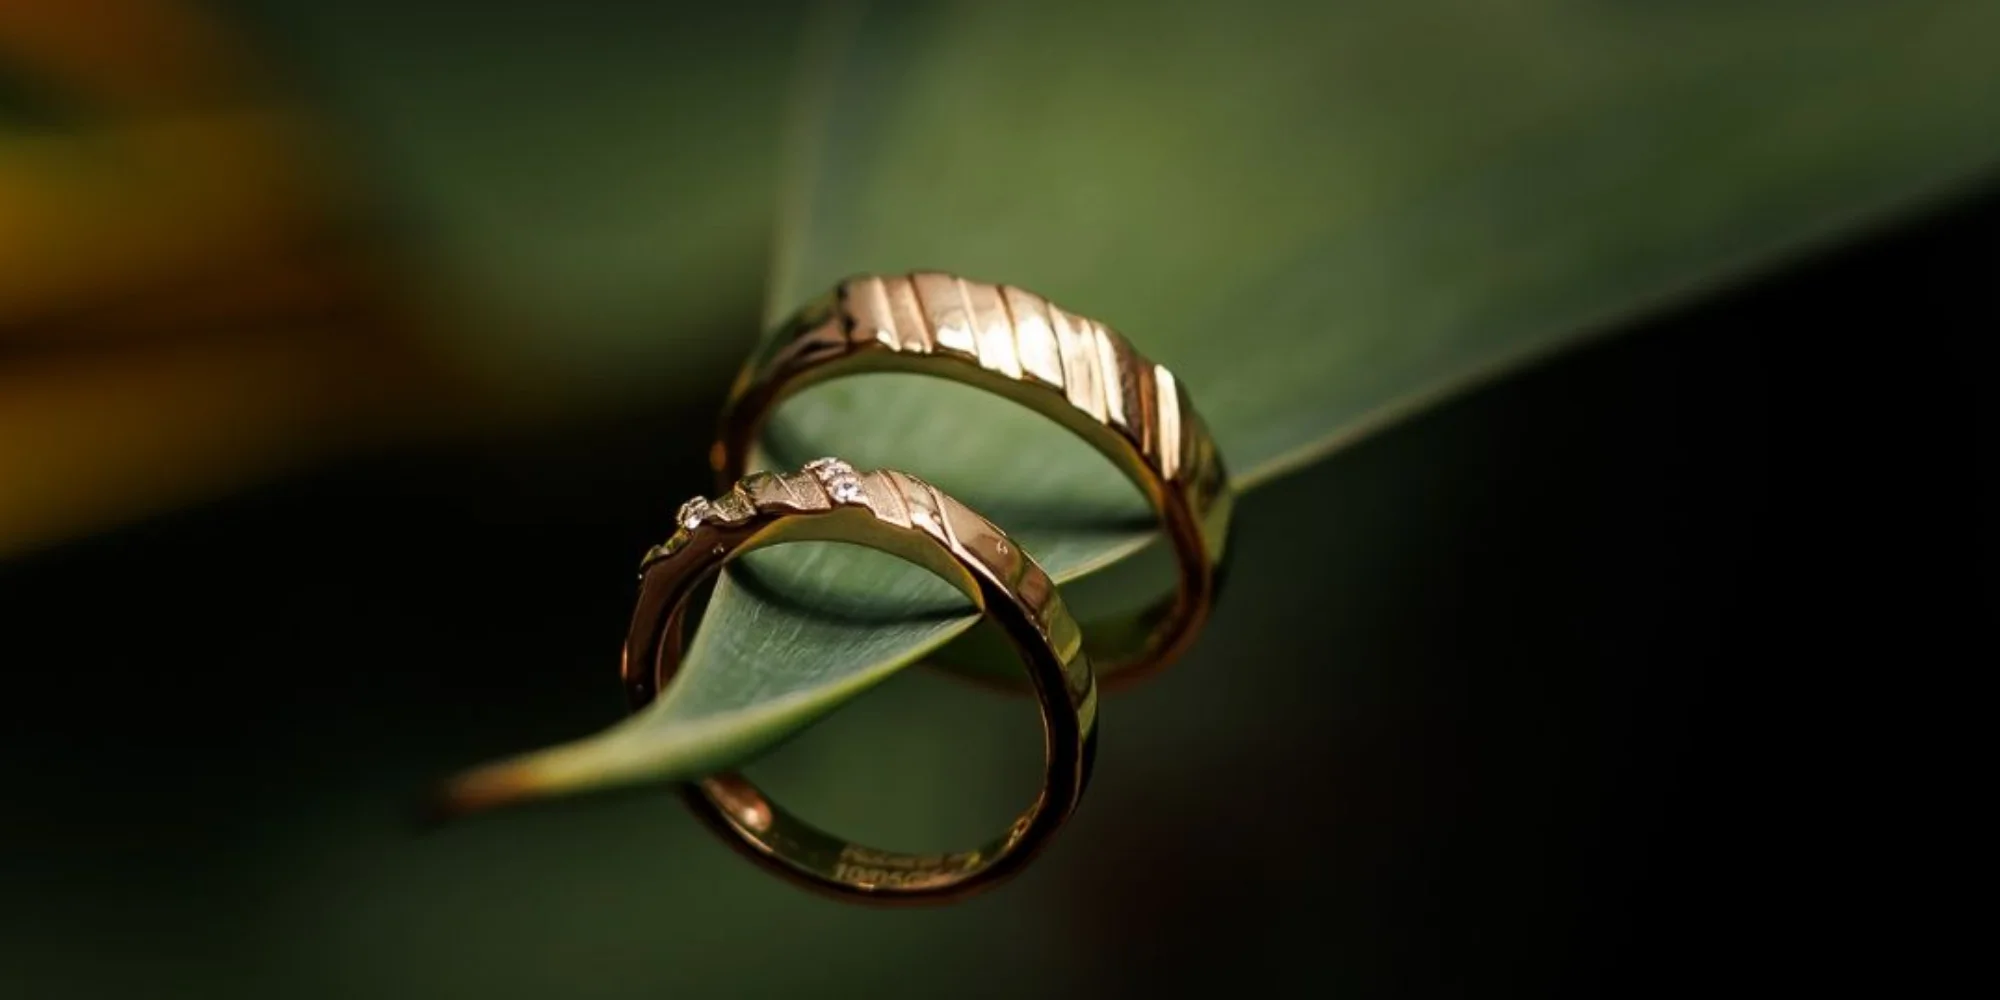
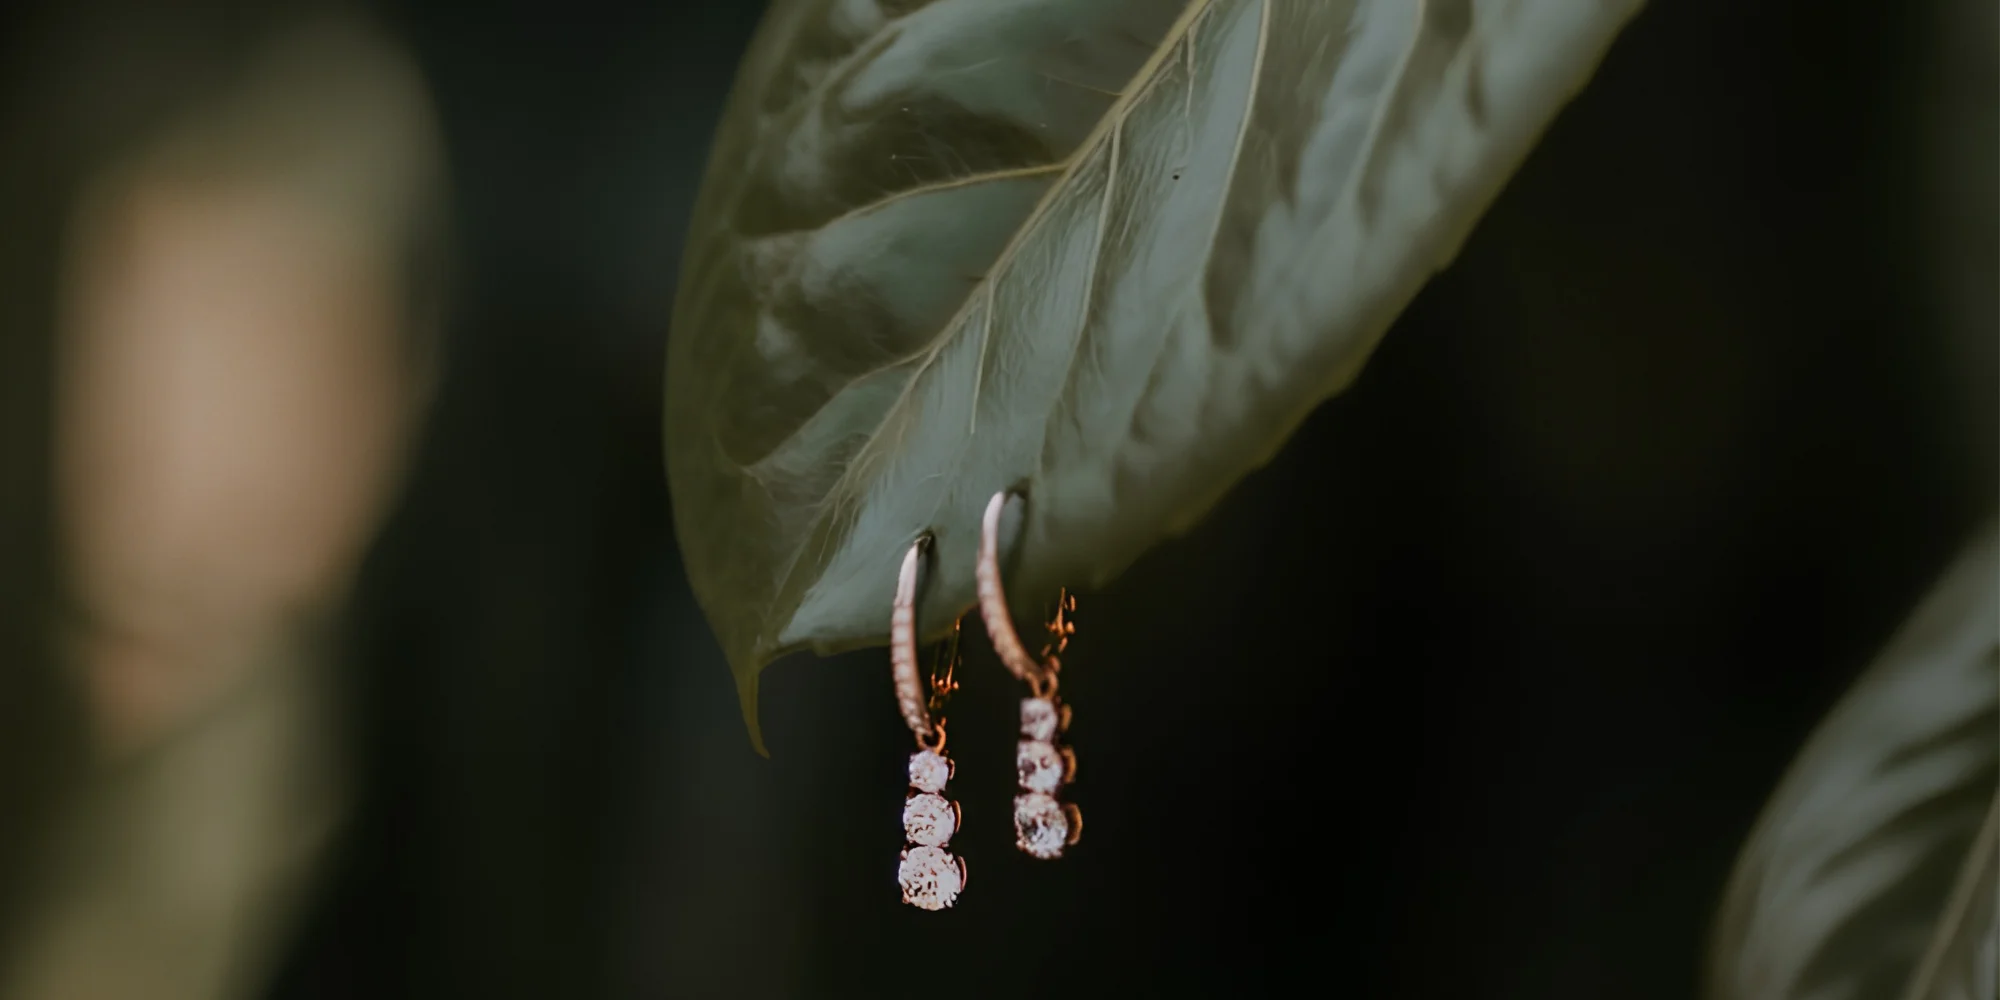
mengubah ke bantarangin official

diff --git a/data/information.js b/data/information.js
@@ -1,12 +1,12 @@
 export const information = {
-  name: "neyraorganizer",
-  city: "Surabaya",
-  phone: "6287769000079",
-  phoneDisplay: "+62 877-6900-0079",
-  email: "neyraorganizer@gmail.com",
+  name: "bantaranginofficial",
+  city: "Tulungagung",
+  phone: "6285150601557",
+  phoneDisplay: "+62 851-5060-1557",
+  email: "bantaranginofficial@gmail.com",
   address:
     "Jl. Prima Kebraon No.37, Kebraon, Kec. Karangpilang, Surabaya, Jawa Timur 60222",
-  instagram: "@neyraorganizer",
+  instagram: "@bantaranginofficial",
   officeHours: "Mon - Sat: 09.00 - 18.00 WIB",
   map: '<iframe src="https://www.google.com/maps/embed?pb=!1m18!1m12!1m3!1d3957.2764425138776!2d112.68869817515275!3d-7.322813972012118!2m3!1f0!2f0!3f0!3m2!1i1024!2i768!4f13.1!3m3!1m2!1s0x2dd7fd001190204d%3A0x69fd769eaeaac0eb!2sDrupadi%20Wedding%20Organizer!5e0!3m2!1sid!2sid!4v1791805959960!5m2!1sid!2sid" width="600" height="450" style="border:0;" allowfullscreen="" loading="lazy" referrerpolicy="strict-origin-when-cross-origin"></iframe>',
 };

diff --git a/src/app/globals.css b/src/app/globals.css
@@ -3,8 +3,8 @@
 :root {
   --background: #ffffff;
   --foreground: #171717;
-  --primary: #19363c;
-  --second: #d9c070 ;
+  --primary: #003b49;
+  --second: #efb71c ;
 }
 
 @theme inline {
